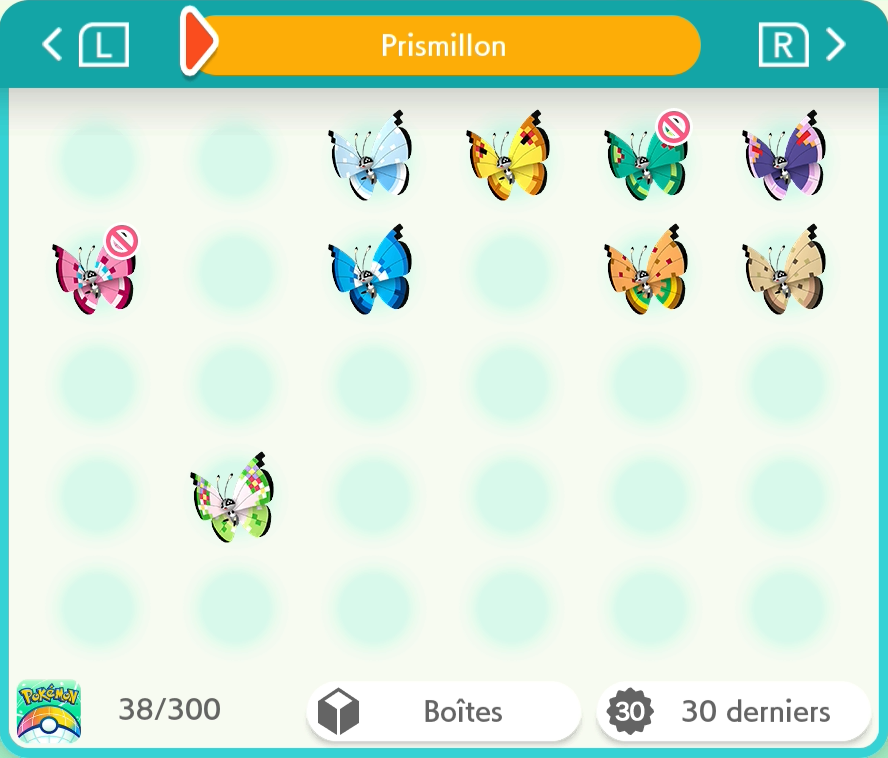
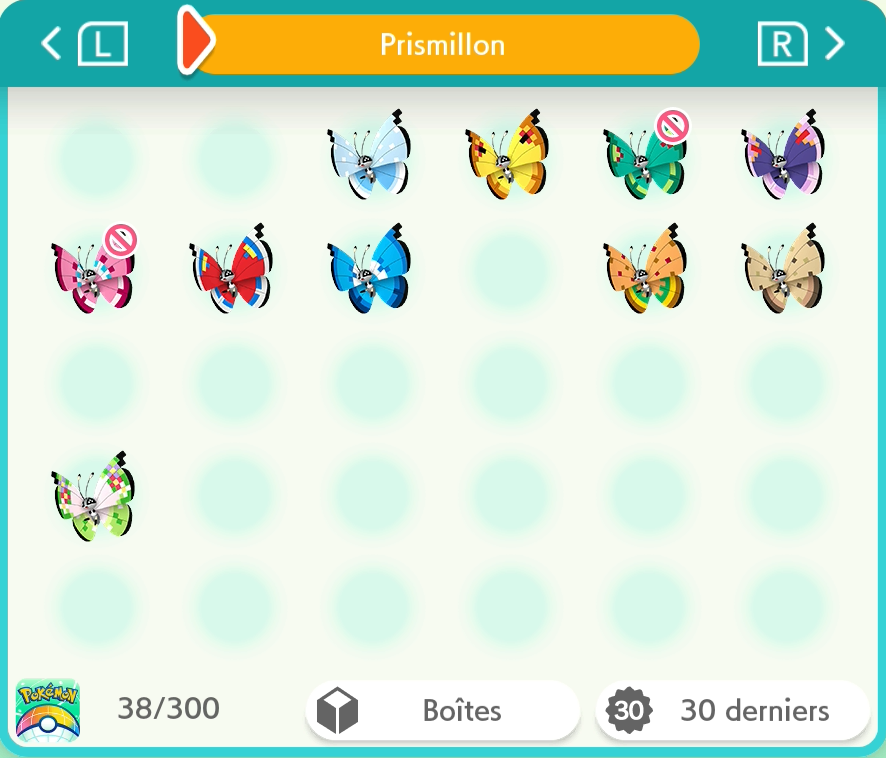
Prismillon : Motif Métropole

diff --git a/README.md b/README.md
@@ -2,7 +2,7 @@
 
 Pokémon-Elément-Sh -> <a href="https://www.pokemon-element-sh.fr/profil/karyno21" target="_blank">Karyno21</a>
 
-↓ Dernière Update le 14/10/2026 à 22h16 ↓
+↓ Dernière Update le 15/10/2026 à 0h51 ↓
 ### Dex 1-9G [295/1001] +34
 
 | Gen | Prog | Notes |
@@ -31,7 +31,7 @@ Pokémon-Elément-Sh -> <a href="https://www.pokemon-element-sh.fr/profil/karyno
 <details>
   <summary>Bonus - Motif de Prismillon</summary>
 
-### Motif de Prismillon [8/19] +8
+### Motif de Prismillon [9/19] +9
 
 | Motif | Prog |
 |---|:--:|
@@ -46,7 +46,7 @@ Pokémon-Elément-Sh -> <a href="https://www.pokemon-element-sh.fr/profil/karyno
 |Motif Glace|Obtenu|
 |Motif Jungle||
 |Motif Mangrove||
-|Motif Métropole||
+|Motif Métropole|Obtenu|
 |Motif Monarchie|Obtenu|
 |Motif Poké Ball (événementiel / Shiny Lock)|❌|
 |Motif Rivage|Obtenu|
